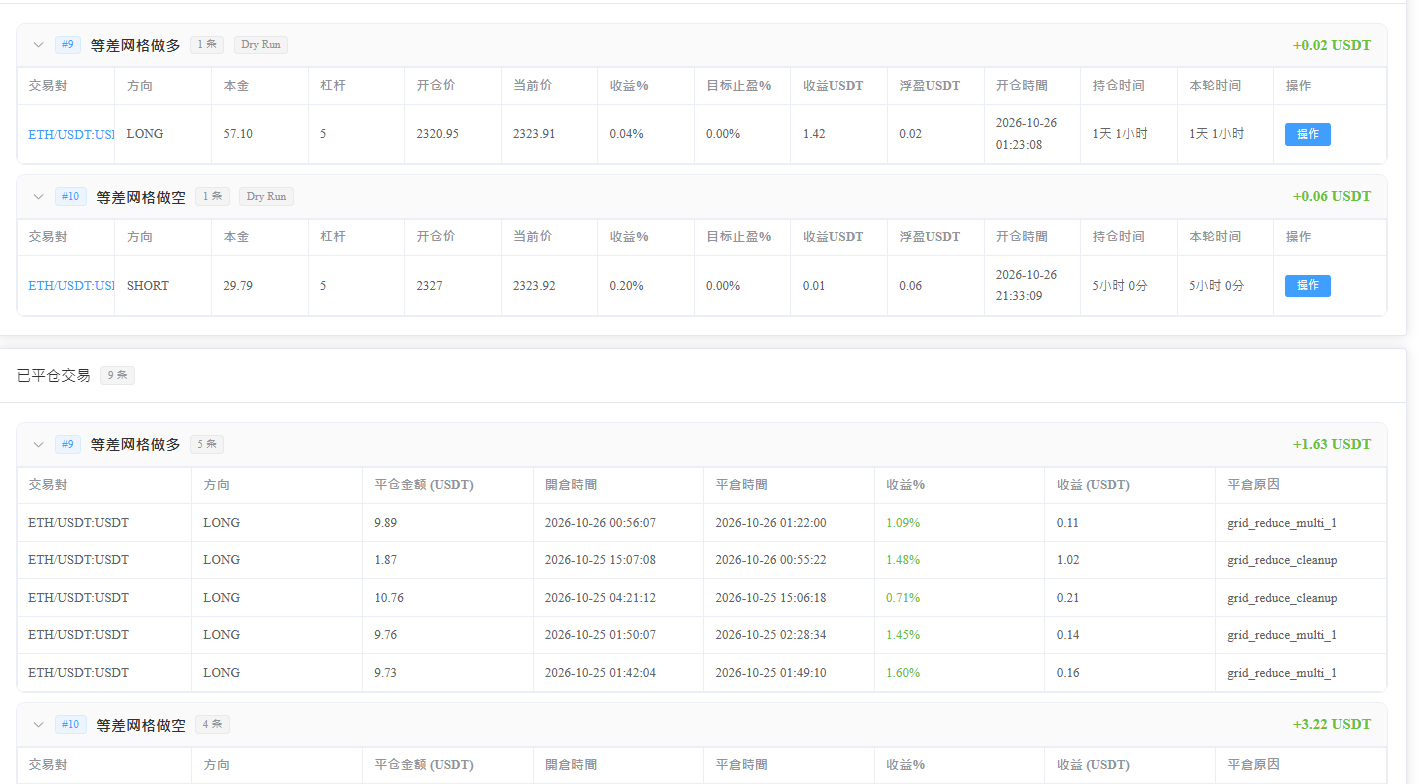
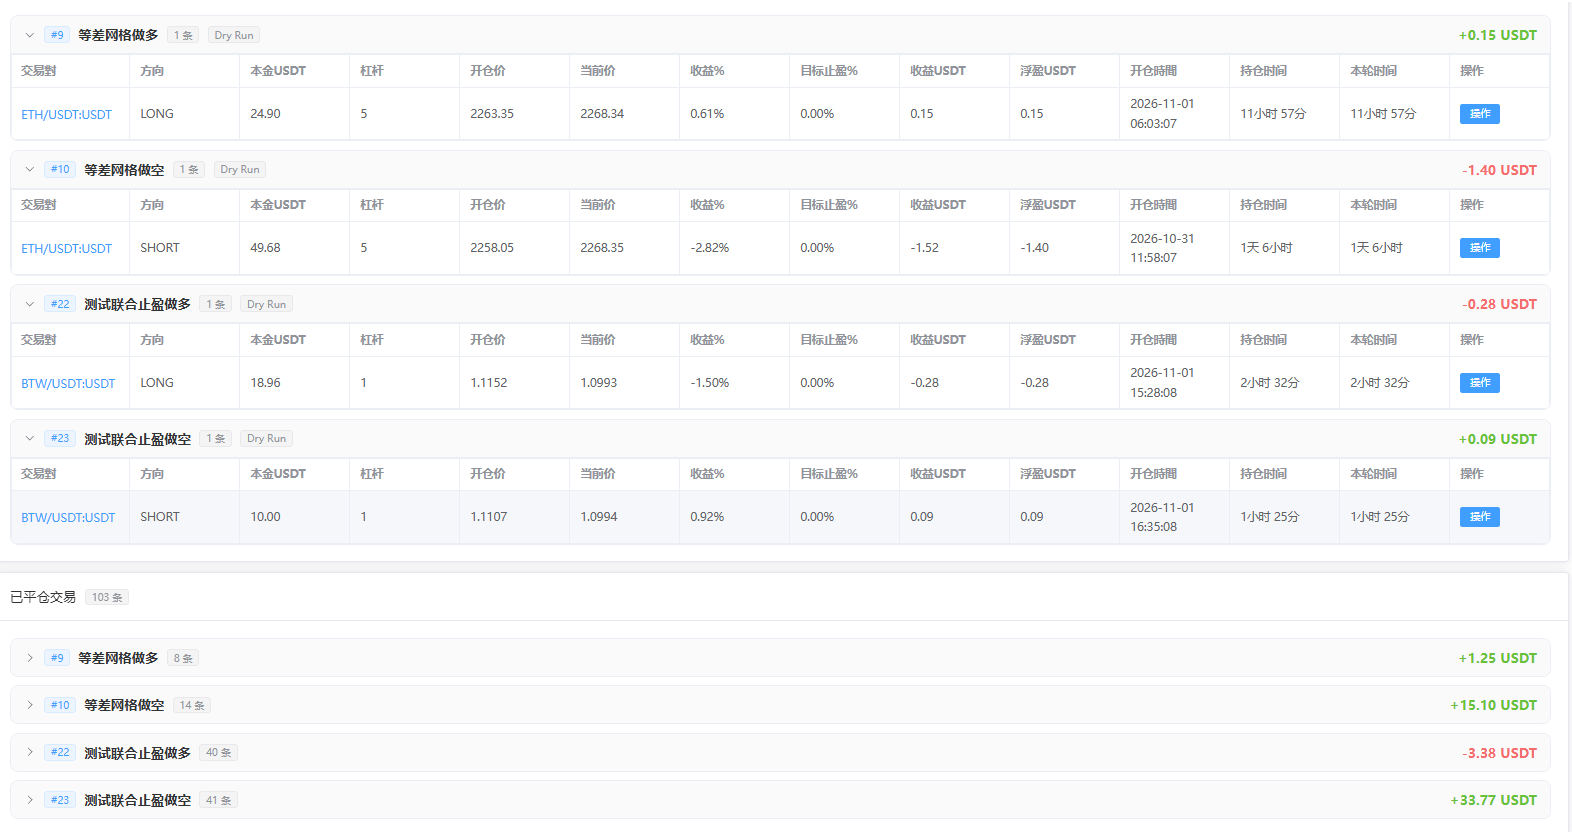
update

diff --git a/frontend/index.html b/frontend/index.html
@@ -4,7 +4,7 @@
     <meta charset="UTF-8" />
     <link rel="icon" type="image/svg+xml" href="/favicon.svg" />
     <meta name="viewport" content="width=device-width, initial-scale=1.0" />
-    <title>frontend</title>
+    <title>FreqHedge</title>
   </head>
   <body>
     <div id="app"></div>
